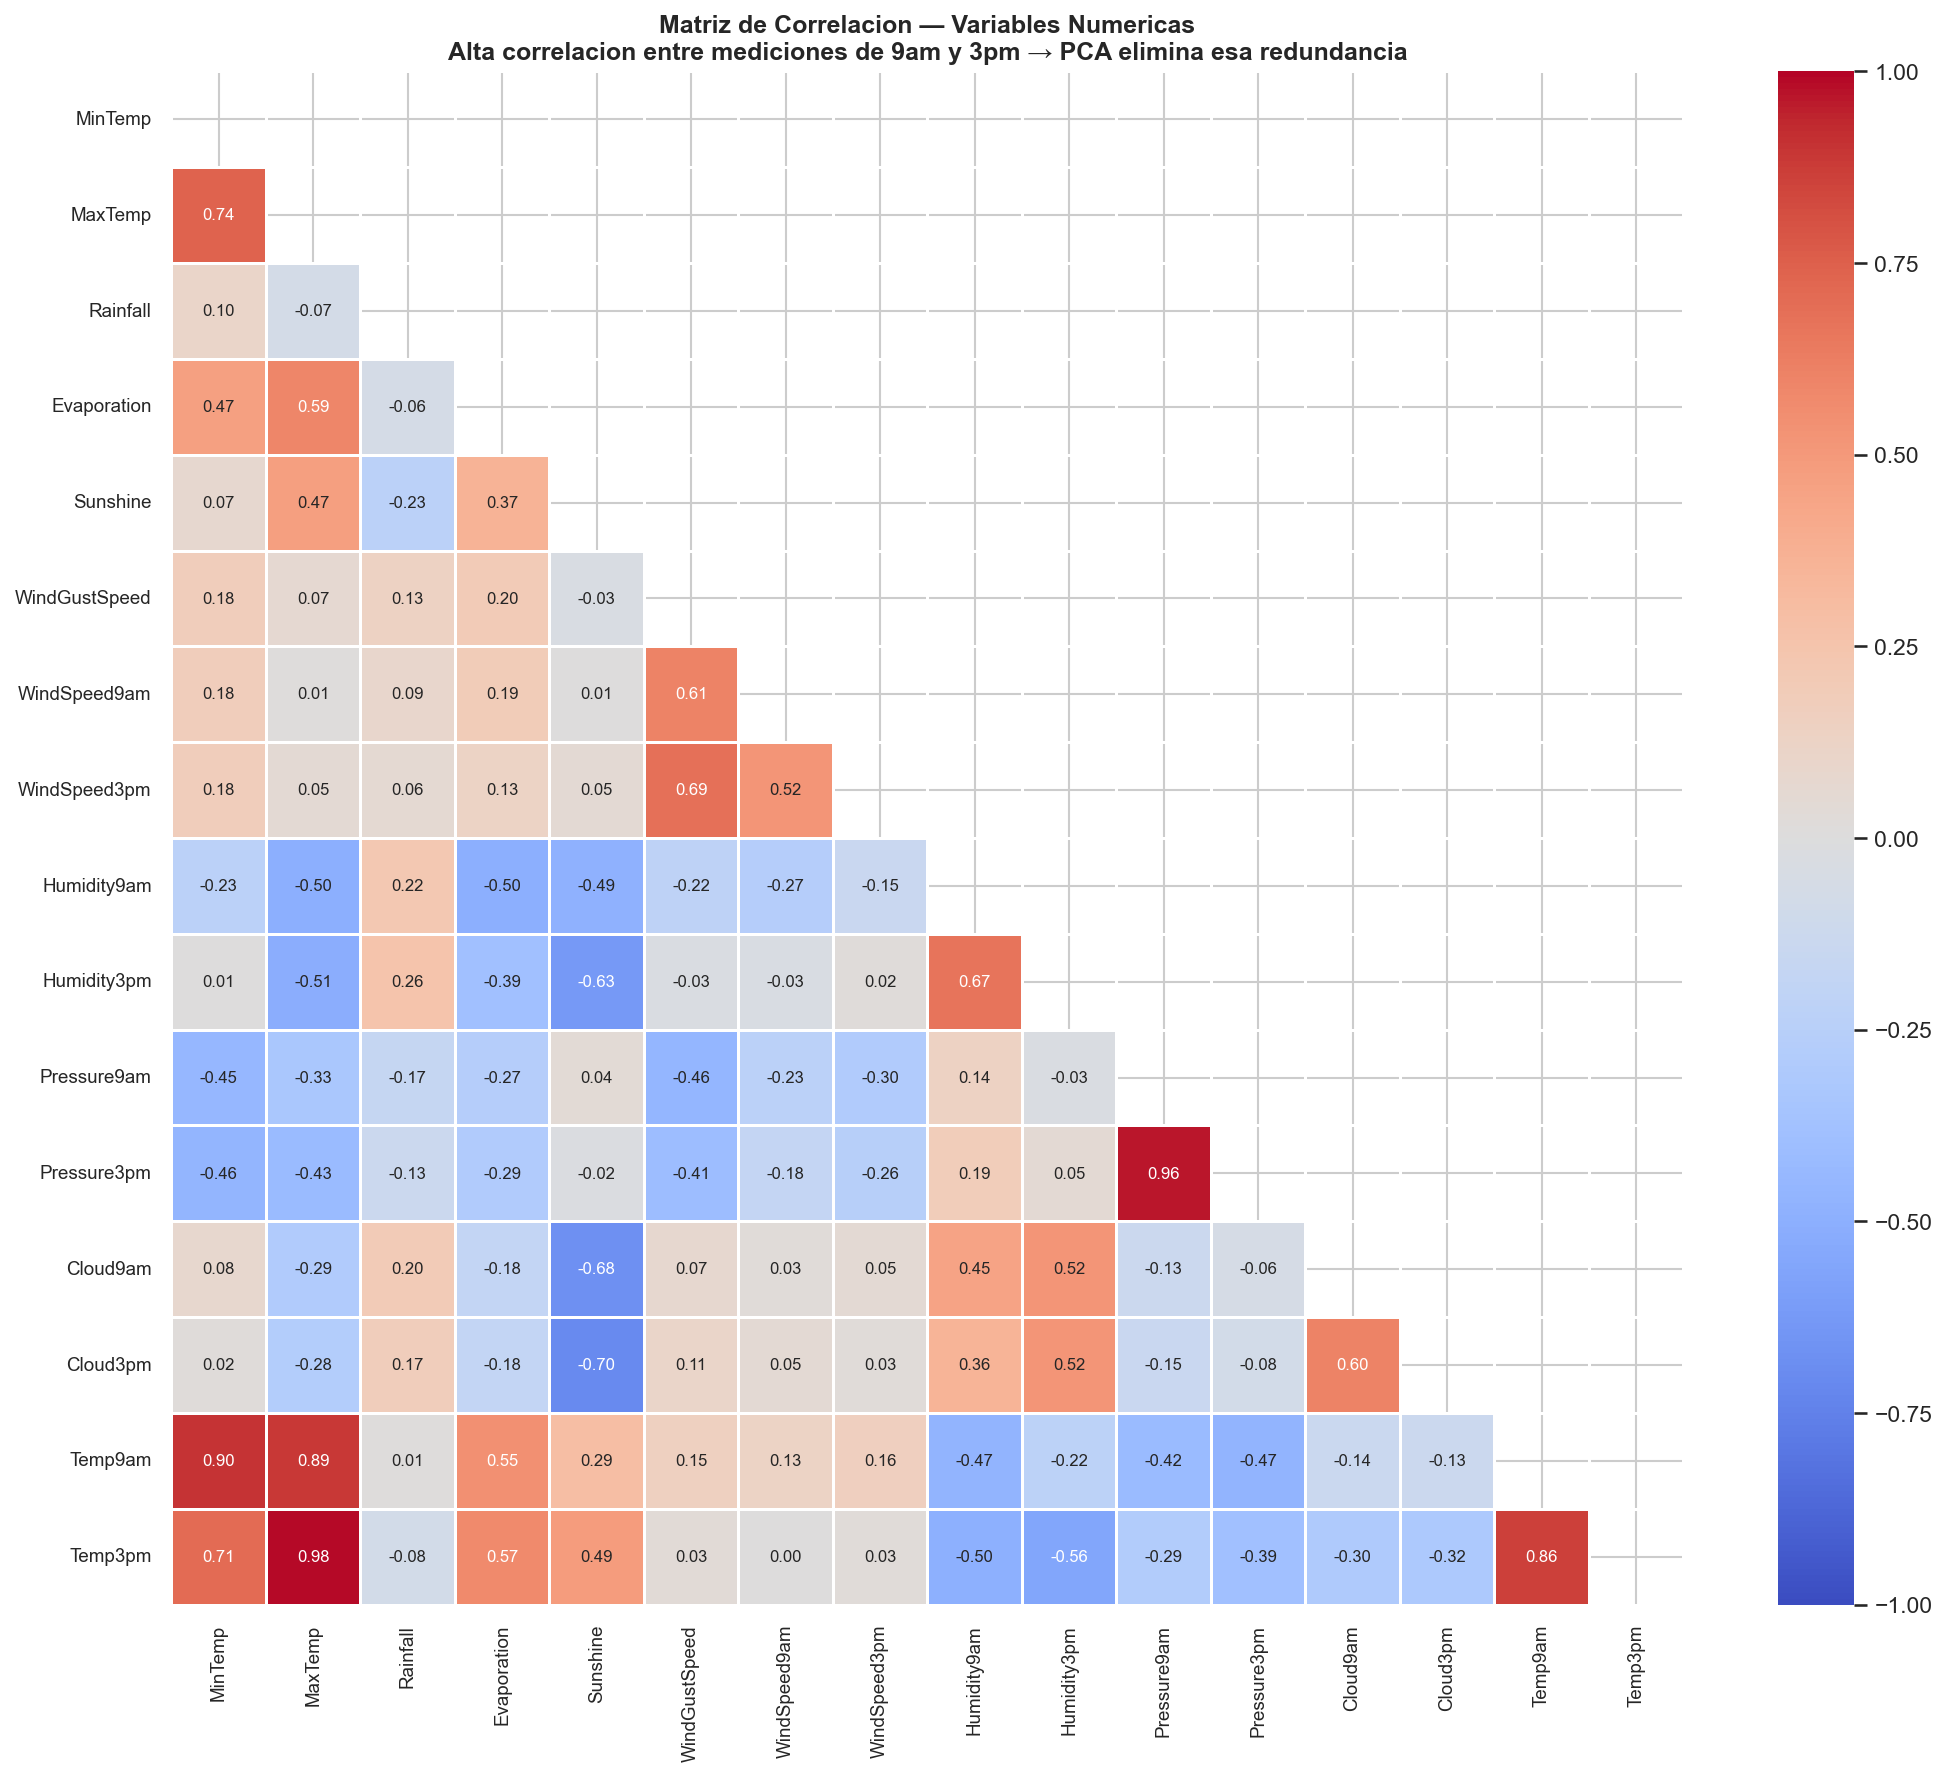
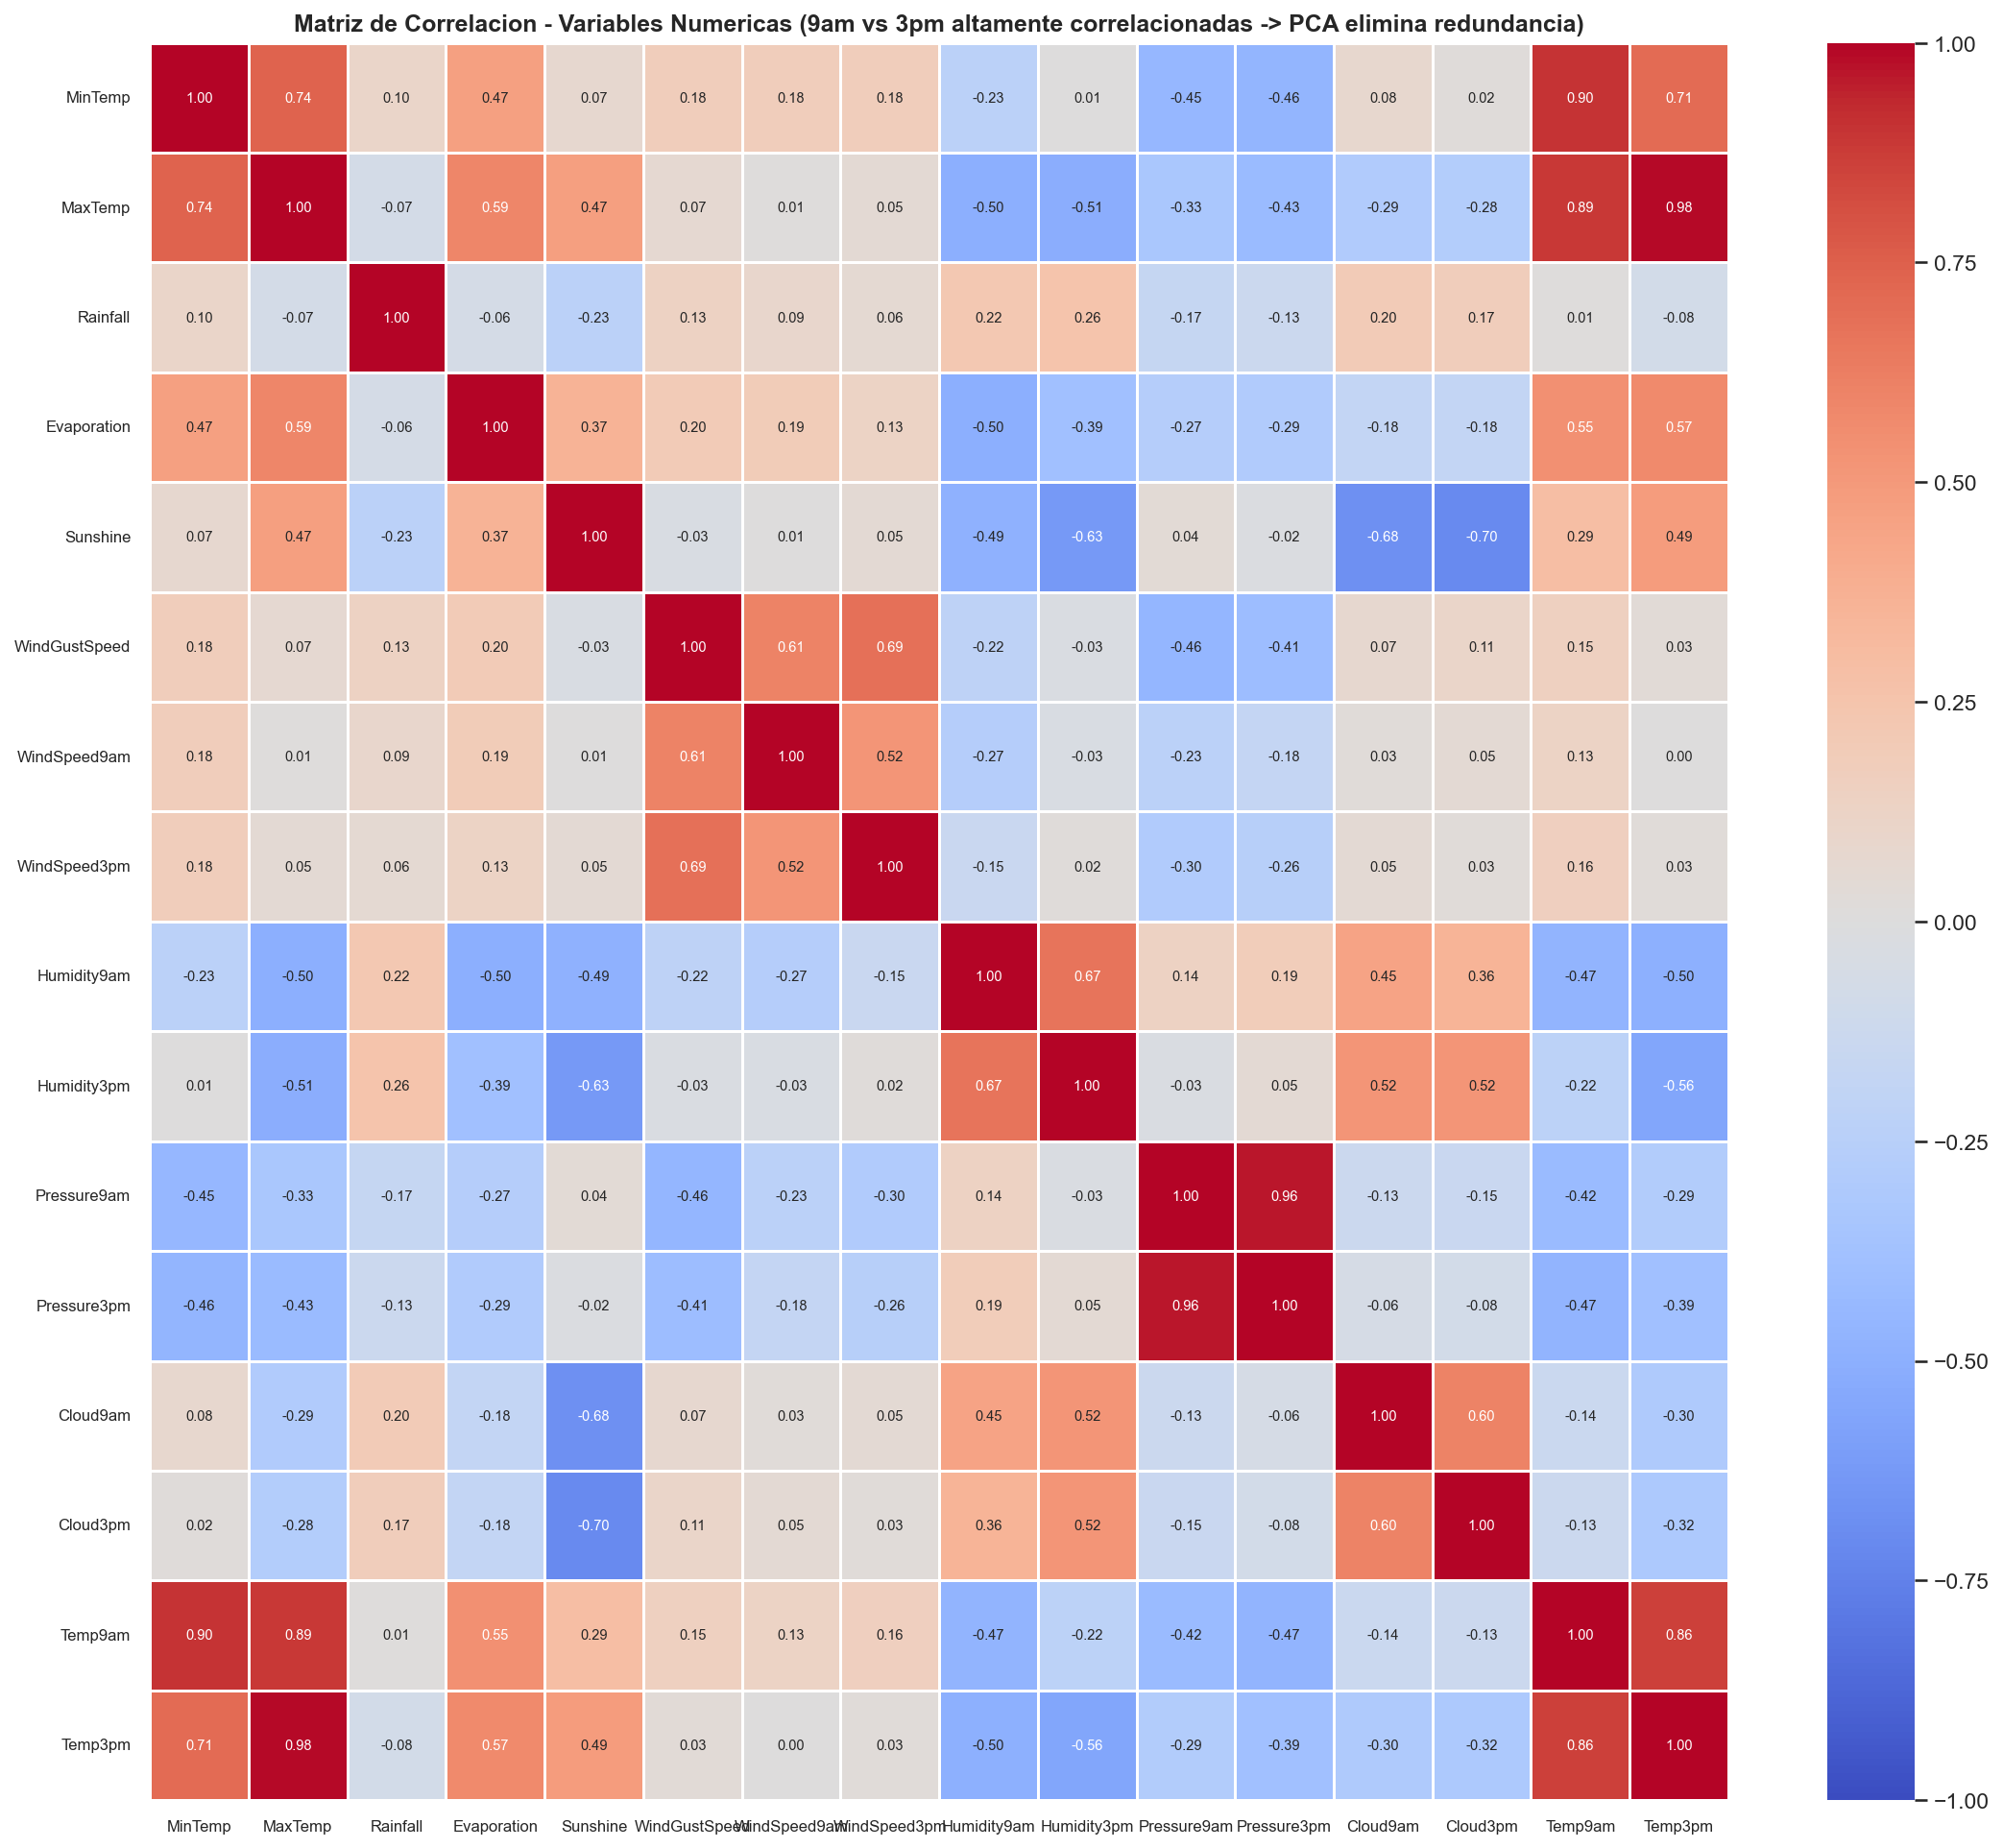
fix: heatmap matriz completa con etiquetas horizontales; actualizar nombres integrantes

diff --git a/README.md b/README.md
@@ -191,9 +191,9 @@ La app tiene tres pestañas de entrada (Temperatura y Lluvia, Viento y Presión,
 
 ## Autores
 
-- **Integrante 1** — modelo y notebook
-- **Integrante 2** — app web y despliegue
-- **Integrante 3** — documentación y presentación
+- **Ariza Vargas Sariaht Eyleen Xiomara** — modelo y notebook
+- **Carreño Medina Adriana Lucia** — app web y despliegue
+- **Linares Viasus Brandon Felipe** — documentación y presentación
 
 *Fundación Universitaria Los Libertadores — Inteligencia Artificial I, 2024*
 